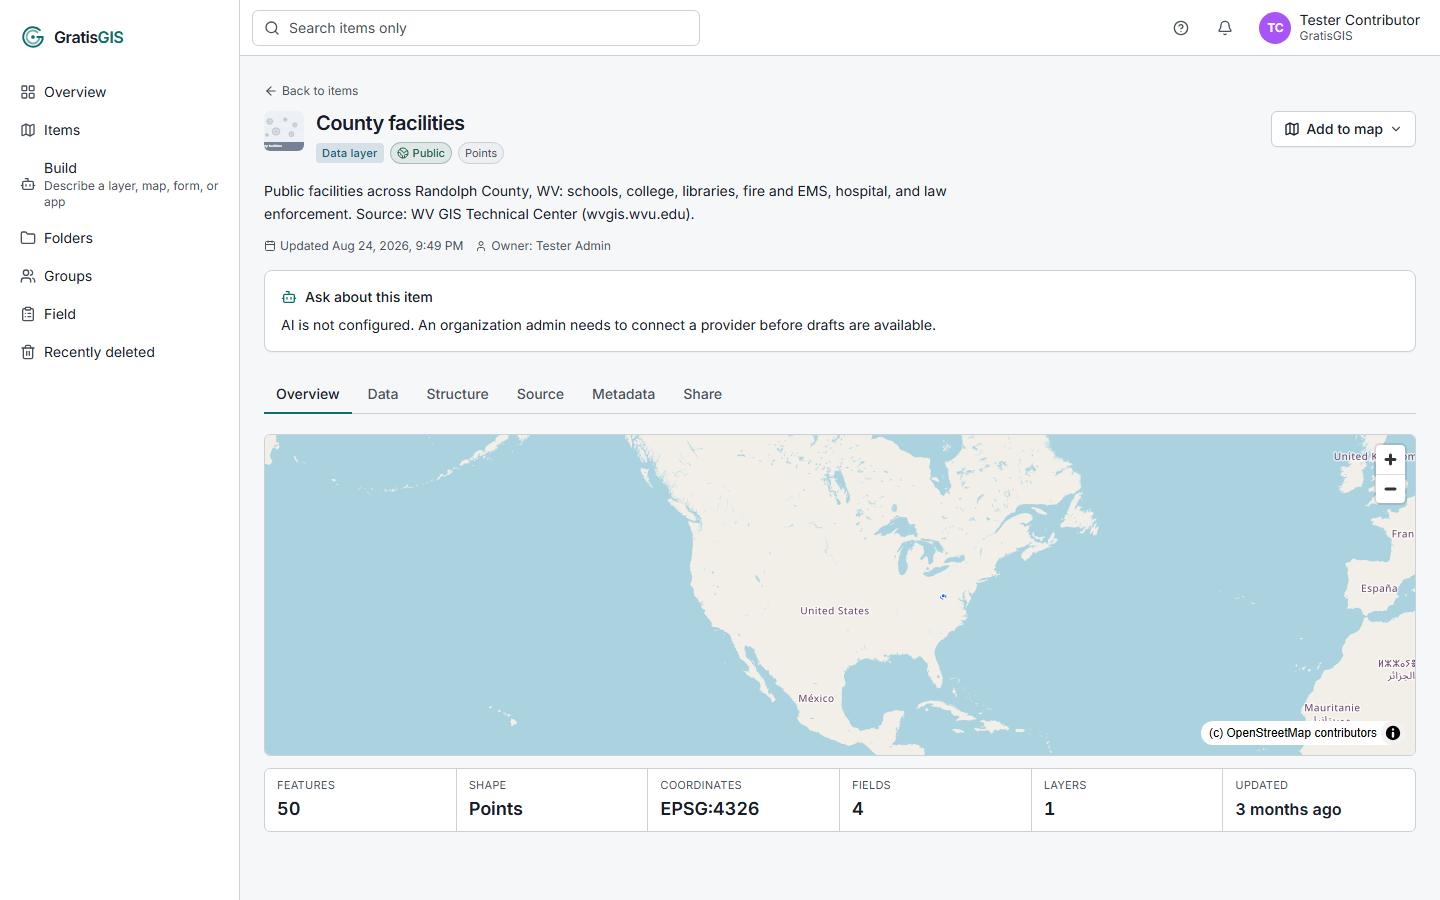
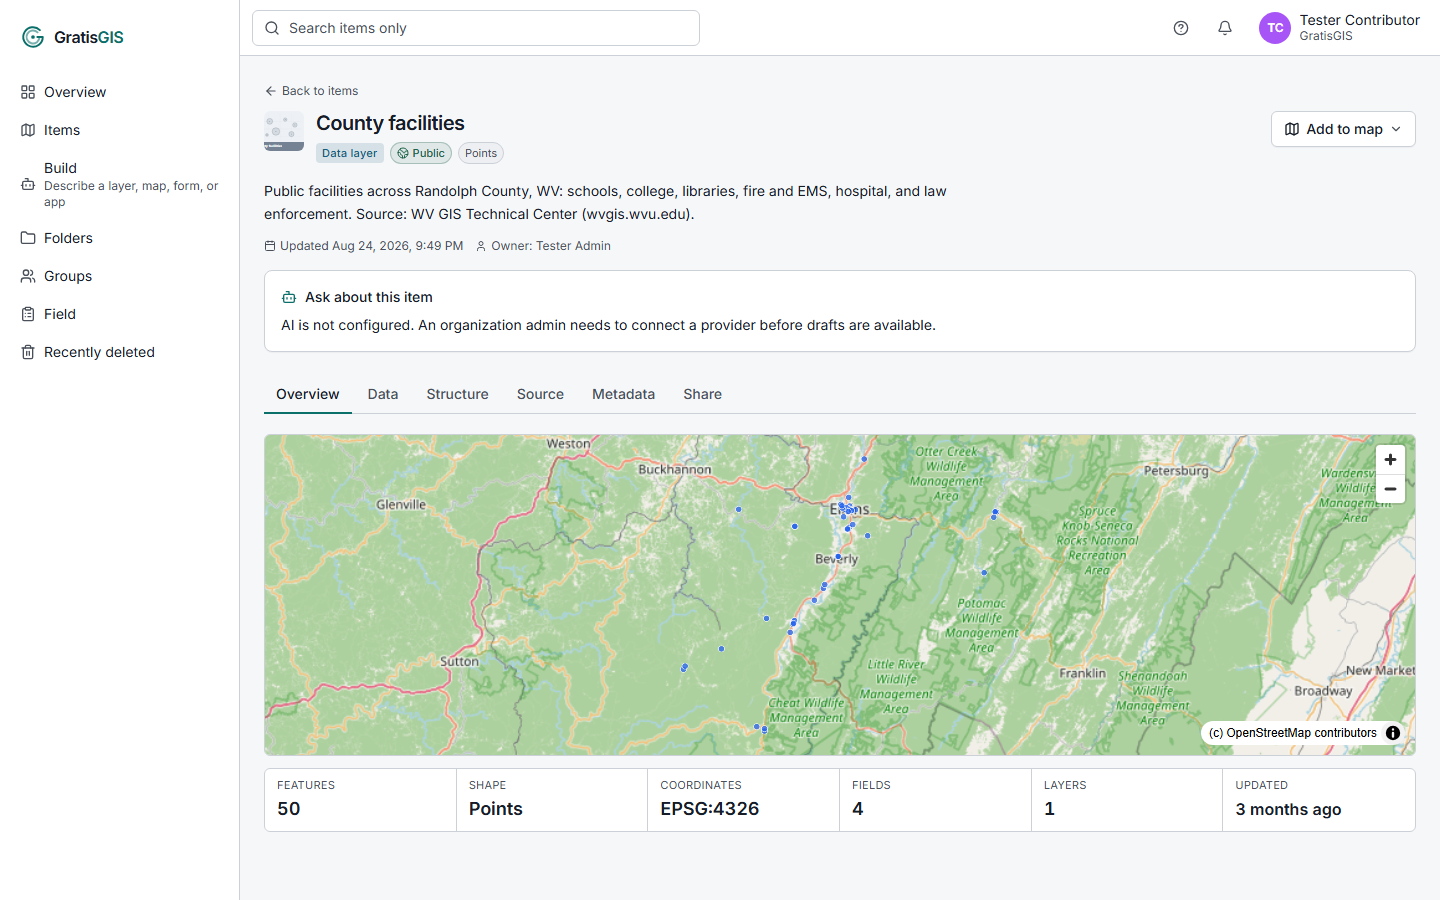
Retake data layer detail help screenshot (#755)
* Retake data layer detail help screenshot

The preview now zooms to the layer (#750) instead of the whole world.

* Move the screenshot guide out of the help content

The help build skipped it with a missing-frontmatter warning on every
build. It is contributor docs, so it lives in docs/ now.

Changed region(s): [[0.1562, 0.4667, 1.0, 0.84]]

diff --git a/CONTRIBUTING.md b/CONTRIBUTING.md
@@ -129,7 +129,7 @@ call:
   multi-step process the reader has to perform, include a real
   screenshot under `apps/portal-web/public/help/` and reference
   it from the markdown. No exceptions. See
-  [`apps/portal-web/content/help/SCREENSHOTS.md`](./apps/portal-web/content/help/SCREENSHOTS.md).
+  [`docs/help-screenshots.md`](./docs/help-screenshots.md).
 - Add a plain-English entry at the top of
   `apps/portal-web/content/changelog/user-visible.md` when a
   non-technical visitor would notice (this feeds the landing-page

diff --git a/apps/portal-web/content/help/ORGANIZATION.md b/apps/portal-web/content/help/ORGANIZATION.md
@@ -14,7 +14,7 @@ How the help catalog is shaped, and why.
    Overlay / Geometry).
 4. **URLs stay stable.** Regroup by changing the `category`
    frontmatter, not by moving files. Slugs come from the file path.
-5. **UI steps get screenshots.** See `SCREENSHOTS.md`.
+5. **UI steps get screenshots.** See `docs/help-screenshots.md` at the repo root.
 
 ## Category map
 
